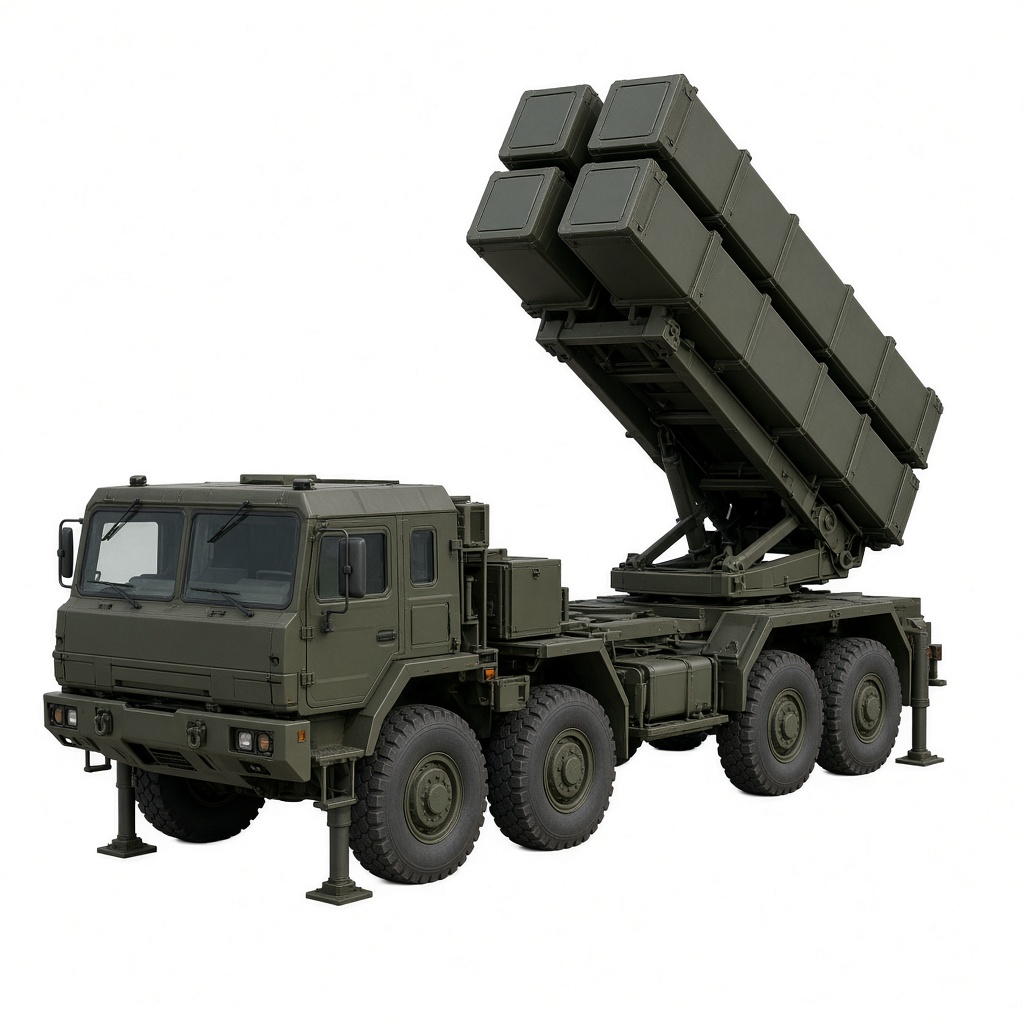
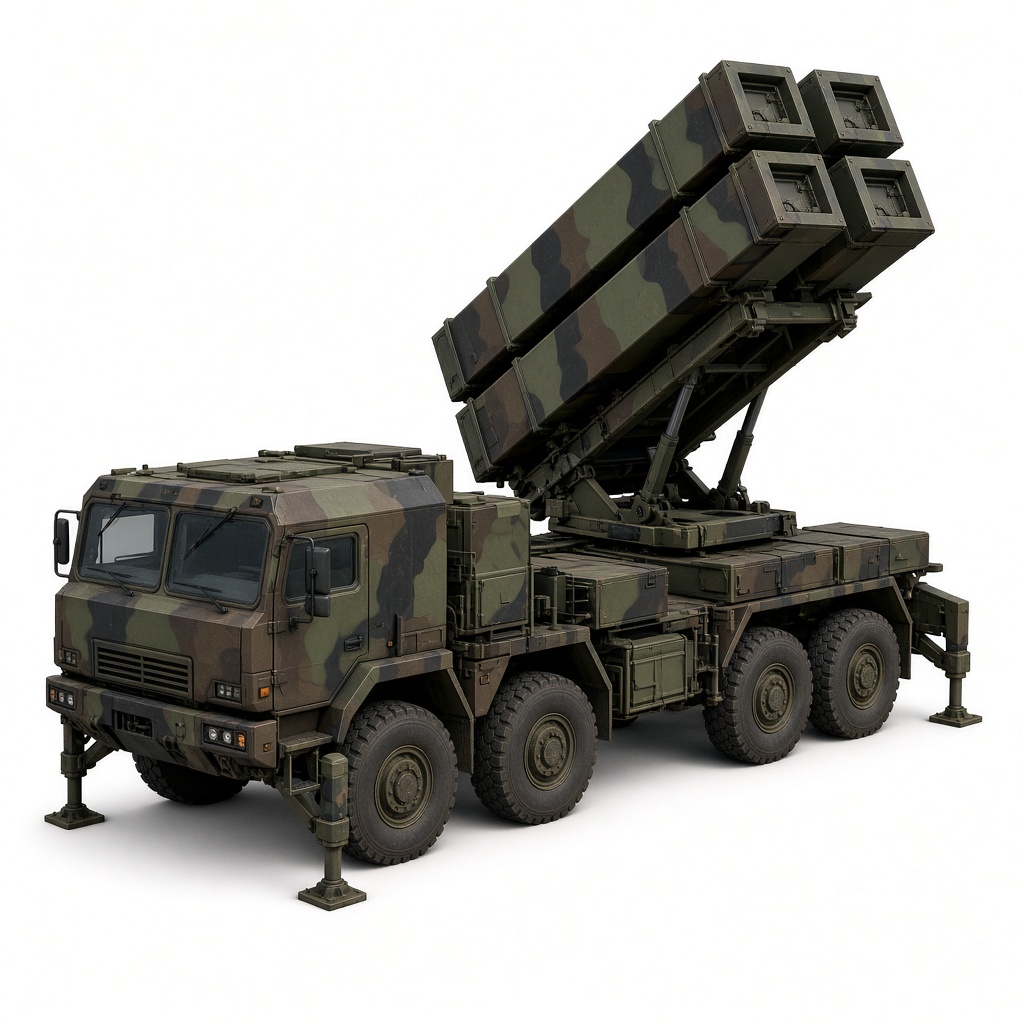
docs(art): باقي الصور 25–59، صاروا 116 بـ docs/art/out
Refs: I-115

diff --git a/docs/IDEAS.md b/docs/IDEAS.md
@@ -94,7 +94,7 @@
 | I-112 | 2026-11-20 | المالك: «اكتبلي برومبت جاهز بملف أخلي Grok يقراه ويسوي كل الصور اللي تريدها» | accepted | docs/art/grok-prompts.md: 58 عنصر (دفاع جوي 19، طيارات 17، سفن 7، دروع 10، منصات صواريخ 5)، بنفس الأسلوب، لقطتين (بطاقة ومن فوق)، خلفية بيضاء بلا ظل |
 | I-113 | 2026-11-20 | المالك: «لا تنطيها لي خليها هناك خلي هو يشوفها» — صور Grok ما تنعرض على المالك، تنحط بالمستودع حتى كلاين يقصّها ويدخلها اللعبة | accepted | `docs/art/out/`؛ أول صورة: 1 لقطة A سيبر |
 | I-114 | 2026-11-20 | المالك: «اعطيه جميع الصور مو واحد واحد، وبشكل أفضل: الألوان الحقيقية لكل دولة بالضبط من كل النواحي، فرمته كاملة لكلهم» | done | `tools/art/make_prompts.py` يولّد `docs/art/grok-prompts.md`: 59 عنصر، 116 صورة، كل نص كامل لحاله ويا ألوان وتمويه الدولة الحقيقي واسم الملف |
-| I-115 | 2026-11-20 | «سوّي كل الصور اللي بهذا الملف، كل نص بصورة لحاله، بالترتيب، وسمّي كل صورة باسمها. وحط الصور بمجلد docs/art/out/» | accepted | التوليد جاري؛ كلاين يقصّها ويدخلها دفعة وحدة |
+| I-115 | 2026-11-20 | «سوّي كل الصور اللي بهذا الملف، كل نص بصورة لحاله، بالترتيب، وسمّي كل صورة باسمها. وحط الصور بمجلد docs/art/out/» | done | 116 صورة بـ `docs/art/out/` بأسماء الملف؛ كلاين يقصّها ويدخلها دفعة وحدة |
 | I-104 | 2026-11-20 | المالك: «ليش تستخدم شي جديد؟ الحرب لازم تكون نفس محاكاة الحرب الكبرى اللي تعبنا عليها (المجسمات والواقعية)» — اقتراح: مسرح الحرب يصير «الحرب الكبرى» كاملة (air.js، مشهد 1:1، الطرق والجسور، الضباب، الخطط، الأشكال) معمّمة لأي دولتين، وأشيل الجو البسيط | open | accepted: «أ، خلي البحرية وابدا بالجو الحقيقي حسب البيانات الحقيقية» — D-050 |
 | I-103 | 2026-11-20 | دقة الجبهة بـW5: «الثاني، ابدا» = حروب اللاعب بالتفصيل (الجبهة تنقسم لخلايا صغيرة مثل «الحرب الكبرى»)، وحروب باقي العالم مختصرة | accepted | D-049، W5 |
 | I-102 | 2026-11-20 | اقتراحي: سيناريو اختياري «بداية كانون الثاني 2026» (قبل حرب إيران) | rejected | المالك: «لا ترجع ابقى الوضع الحالي» — نبقى على الوضع الحقيقي الحالي بس (D-048) |

diff --git a/docs/art/out/README.md b/docs/art/out/README.md
@@ -1,12 +1,9 @@
 # الصور الراجعة من Grok
 
-المالك طلب ما تنعرض عليه. كلاين يفتحها من هنا، يقصّها، ويحطها باللعبة.
+116 صورة بأسماء `docs/art/grok-prompts.md`، بالترتيب. كلاين يقصّها ويدخلها اللعبة دفعة وحدة.
 
-| رقم | اللقطة | الملف | الحالة |
-|---|---|---|---|
-| 1 سيبر Block-1 | A كتالوج | `01a-siper.jpg` | نسخة أولى (انبدلت) |
-| 1 سيبر Block-1 | A كتالوج | `01a-siper-v2.jpg` | ✅ باللعبة (`img/sam_siper_v.webp`): تمويه وأرجل تثبيت هيدروليك أوضح، وظل أرض ناعم |
-| 1 سيبر Block-1 | B من فوق | — | ما انسوت |
-| 2–58 | A ثم B | — | ما انسوت |
+- **A** لقطة كتالوج من الأمام-اليسار.
+- **B** من فوق، المقدمة لليمين.
+- `01a-siper-v2.jpg` نسخة سيبر القديمة اللي دخلت اللعبة قبل هالدفعة. الجديدة هي `01a-siper.jpg` و`01b-siper.jpg`.
 
-الترتيب والنص بـ [`../grok-prompts.md`](../grok-prompts.md).
+ما تنعرض على المالك (I-113، I-115).

diff --git a/CHANGELOG.md b/CHANGELOG.md
@@ -8,7 +8,7 @@
 - **سيبر التركية صار إلها صورة واقعية** (من Grok، I-112/I-113) بلوحة الدفاع الجوي وبشارة البطارية على الخريطة. الباقي يطلع بصورة باتريوت أو S-400 لحد ما توصل صورها.
 
 ### صور (للكلاين، ما دخلت اللعبة بعد)
-- صورة سيبر، لقطة الكتالوج، بمجلد `docs/art/out/` حتى تنقص وتدخل الخريطة.
+- **116 صورة** بأسمائها بمجلد `docs/art/out/`: دفاع جوي، طيارات، سفن، دروع، ومنصات. لقطة كتالوج ولقطة من فوق. تنقص وتدخل دفعة وحدة.
 
 ### بيانات («العالم» — أنظمة كل دولة 2025–26، I-110)
 - **تركيا: «القبة الفولاذية»** — سيبر (بعيد)، حصار-O+ (متوسط)، حصار-A+ (قريب)، كوركوت (مدفع)، ويا S-400؛ وصواريخها الخاصة (تايفون، كارغو، SOM).
